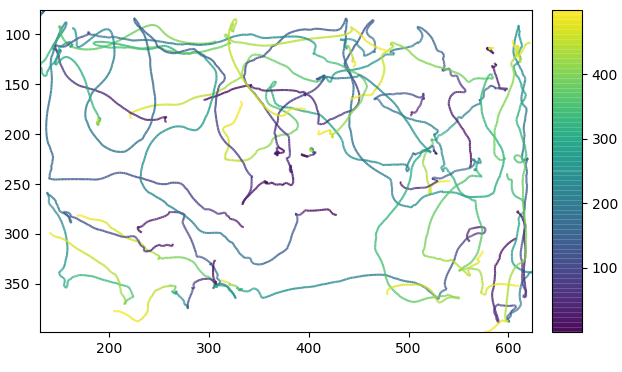
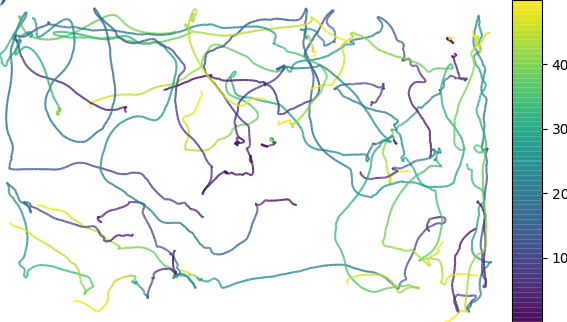
Don't show axis labels by default

diff --git a/trackviz/static.py b/trackviz/static.py
@@ -26,7 +26,8 @@ def trajectory_2d(
     scat_kws=None,
     im_kws=None,
     dpi=None,
-    scale=1.
+    scale=1.,
+    margin=None
 ):
     """
     2d plot of trajectories.
@@ -64,6 +65,8 @@ def trajectory_2d(
         Figure dots per inch. If None, default to matplotlib.rcParams['figure.dpi'].
     scale : float, optional
         Output size scale.
+    margin : dict, keys ('left', 'right', 'bottom', 'top') , optional
+        Margin between plot elements and figure. Defaults are {'left': 40, 'bottom': 40, 'right': 40, 'top': 10}.
 
     Returns
     -------
@@ -113,6 +116,12 @@ def trajectory_2d(
 
     im_kws = {} if im_kws is None else im_kws.copy()
 
+    margin = {} if margin is None else margin.copy()
+    margin.setdefault('left', 0)
+    margin.setdefault('bottom', 0)
+    margin.setdefault('right', 25 if cbar else 0)
+    margin.setdefault('top', 0)
+
     # compute x and y limits
     if xlim is None:
         xlim = (tracks['x'].min(), tracks['x'].max())
@@ -130,8 +139,10 @@ def trajectory_2d(
     axsize = (np.array((width, height)) * scale).astype(np.int)
     # print('axsize: {}'.format(axsize))
 
-    grid = FigureAxes(axsize, 20, dpi, cbar, cbar_width, 40, 40, 40, 10)
+    grid = FigureAxes(axsize, 20, dpi, cbar, cbar_width,
+                      margin['left'], margin['bottom'], margin['right'], margin['top'])
     grid.ax.set_aspect('equal')
+    grid.ax.axis('off')
     grid.ax.set_xlim(xlim)
     grid.ax.set_ylim(ylim[::-1])   # invert y axis
 

diff --git a/examples/static_2d.py b/examples/static_2d.py
@@ -1,3 +1,4 @@
+import imageio
 import pandas as pd
 import matplotlib.pyplot as plt
 
@@ -5,6 +6,8 @@ import trackviz.static
 
 
 tracks = pd.read_csv('sample_data/ant_tracking_res.csv').rename(columns={'frame': 't'})
-fig, ax = trackviz.static.trajectory_2d(tracks, line_kws=dict(linewidths=0.5))
+image = imageio.get_reader('sample_data/ant_dataset.mp4').get_next_data()
+
+fig, ax = trackviz.static.trajectory_2d(tracks, image=image, line_kws=dict(linewidths=0.5))
 fig.savefig('output/static_2d.png')
 # plt.show()

diff --git a/examples/static_2d_color_labels.py b/examples/static_2d_color_labels.py
@@ -16,6 +16,7 @@ label = np.random.choice(['a', 'b', 'c'], size=len(trackid))
 labels = pd.DataFrame(dict(trackid=trackid, label=label))
 
 # plot
-fig, ax = trackviz.static.trajectory_2d(tracks, image=image, labels=labels, color='label', cbar=True)
+fig, ax = trackviz.static.trajectory_2d(tracks, image=image, labels=labels, color='label', cbar=True, scale=0.8)
+
 fig.savefig('output/static_2d_color_labels.png')
 # plt.show()

diff --git a/examples/animate_2d.py b/examples/animate_2d.py
@@ -8,4 +8,4 @@ tracks = pd.read_csv('sample_data/ant_tracking_res.csv')
 frames = np.array(imageio.mimread('sample_data/ant_dataset.mp4', memtest=False))
 
 trackanim = trackviz.animate.TrackAnimation2d(tracks, frames=frames)
-trackanim.save('output/animate_2d_background.mp4')
+trackanim.save('output/animate_2d.mp4')
